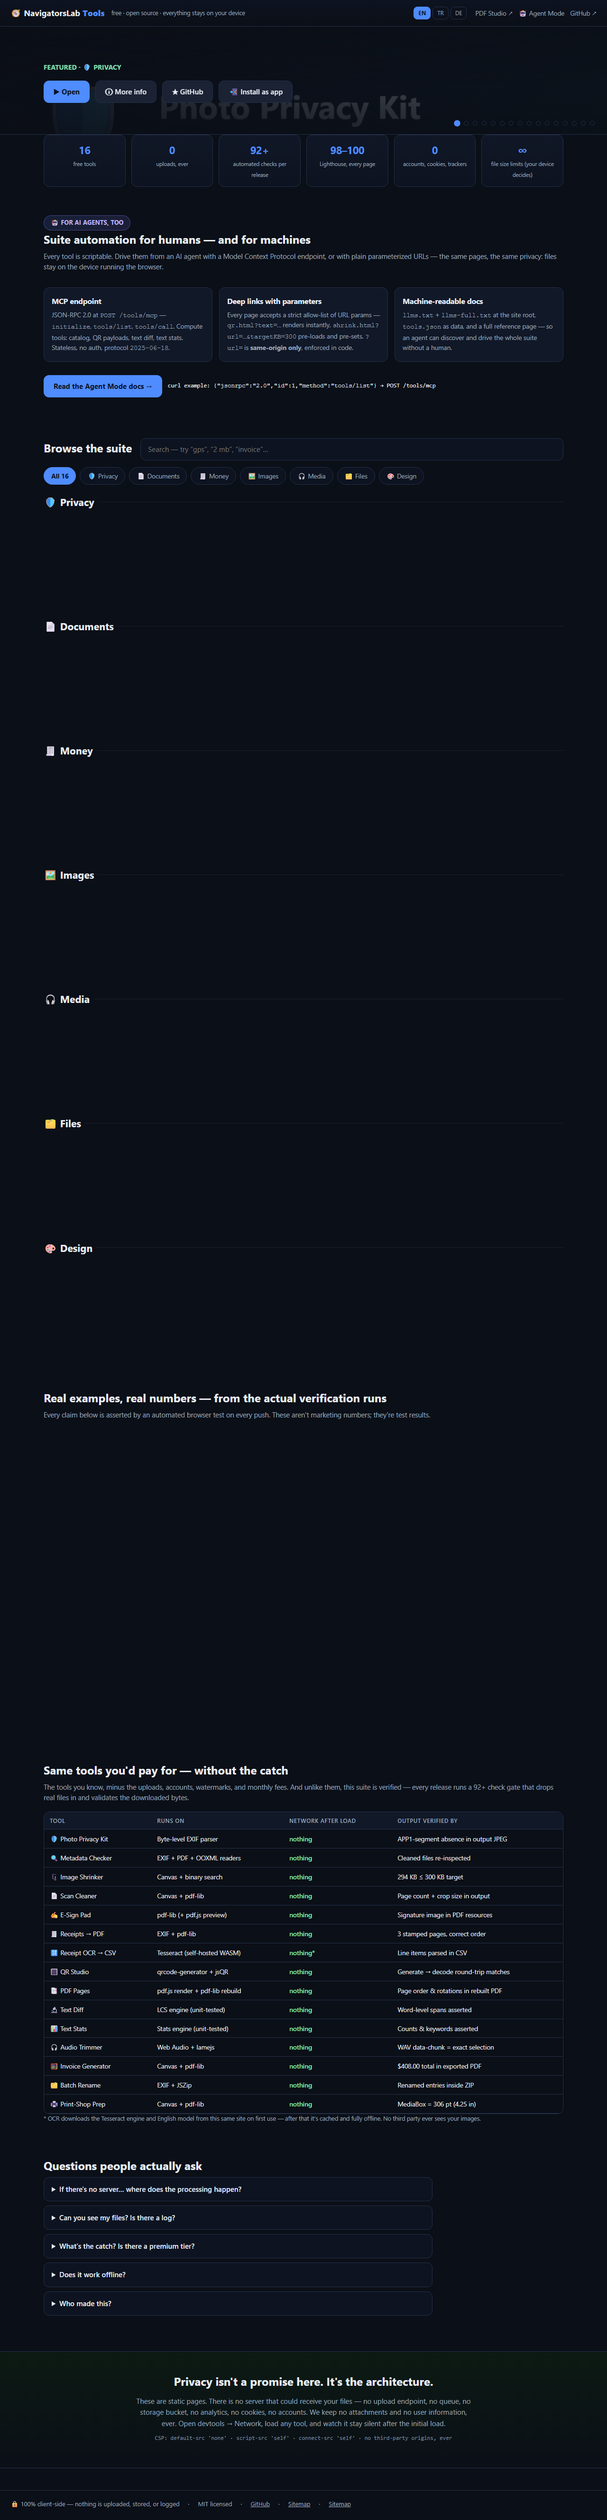
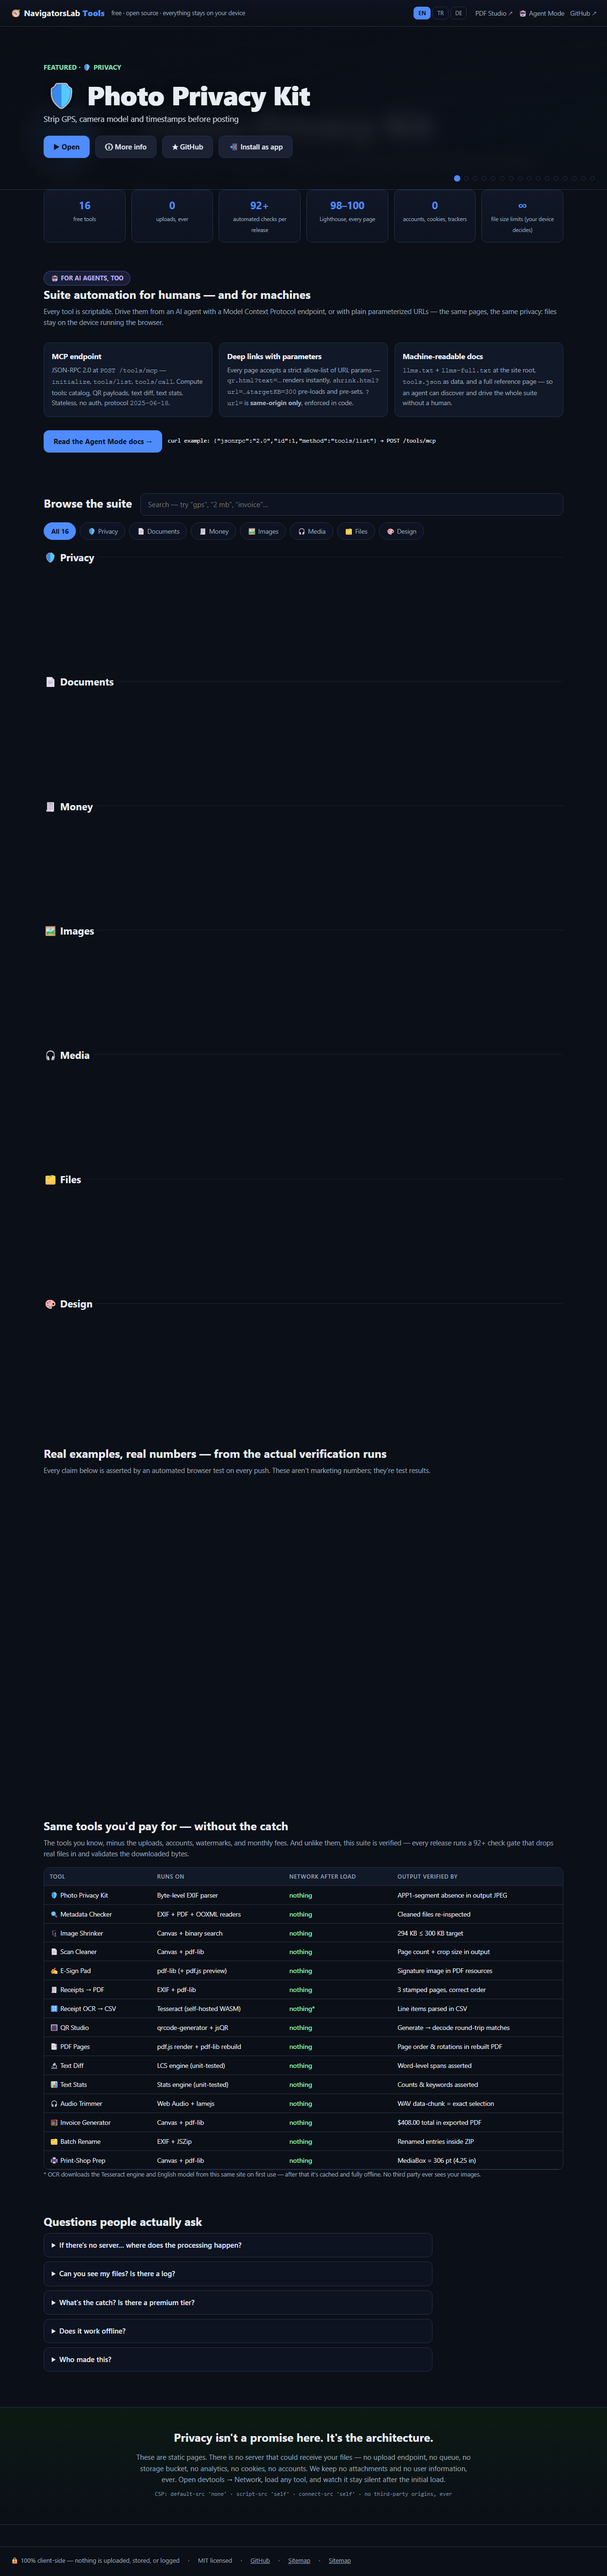
Billboard: real HTML title + tagline instead of poster art text
The featured spotlight relied on the OG poster's baked-in title, which
cropped under the CTA buttons at phone widths. Netflix-style billboards
need their own text layer: the art now stays an ambient blurred backdrop
and the crisp HTML title/tagline (localized) is the only title at every
width. Verified at 320px and 900px; 32/32 e2e checks pass.

🤖 Generated with Codebuff

diff --git a/src/styles.css b/src/styles.css
@@ -193,6 +193,11 @@ table.tbl { width: 100%; border-collapse: collapse; font-size: 13.5px; }
   position: absolute; inset: 0; width: 100%; height: 100%;
   object-fit: cover; object-position: center 30%;
   opacity: 0; transition: opacity .6s ease;
+  /* the OG posters carry baked-in title text that would double the HTML
+     title and crop badly at phone widths — blur them into an ambient
+     color wash so the HTML title is the only title at every width */
+  filter: blur(16px) saturate(1.15) brightness(.85);
+  transform: scale(1.1); /* hide the blur's transparent edge vignette */
 }
 .bb-art.ready { opacity: 1; }
 .bb-scrim {
@@ -209,6 +214,15 @@ table.tbl { width: 100%; border-collapse: collapse; font-size: 13.5px; }
   display: inline-block; color: #7ce0ae; font-size: 13.5px; font-weight: 700;
   letter-spacing: .4px; text-transform: uppercase; margin-bottom: 18px;
 }
+.bb-title {
+  margin: 0 0 10px; font-size: clamp(30px, 5.4vw, 56px); line-height: 1.05;
+  font-weight: 800; letter-spacing: -.5px;
+  text-shadow: 0 2px 18px rgba(0,0,0,.55);
+}
+.bb-tagline {
+  margin: 0 0 22px; max-width: 560px; font-size: 16.5px; line-height: 1.55;
+  color: #cfd8e6; text-shadow: 0 1px 10px rgba(0,0,0,.5);
+}
 .bb-cta { display: flex; gap: 12px; flex-wrap: wrap; }
 .bb-dots {
   position: absolute; right: 26px; bottom: 18px; z-index: 3;
@@ -221,6 +235,12 @@ table.tbl { width: 100%; border-collapse: collapse; font-size: 13.5px; }
 }
 .bb-dot:hover { transform: scale(1.25); }
 .bb-dot.on { background: var(--acc); border-color: var(--acc); transform: scale(1.35); }
+
+@media (max-width: 720px) {
+  .bb-inner { padding: 54px 18px 58px; }
+  .bb-title { font-size: 28px; margin-bottom: 8px; }
+  .bb-tagline { font-size: 14.5px; margin-bottom: 16px; }
+}
 
 /* --- rails: one horizontal scroller per category --- */
 .rails { display: block; }
@@ -285,6 +305,11 @@ table.tbl { width: 100%; border-collapse: collapse; font-size: 13.5px; }
   .cards.poster { transition: none; }
   .cards.poster:hover, .cards.poster:focus-within { transform: none; }
   .bb-dot { transition: none; }
+}
+
+/* keep billboard text + CTAs clear of the dots row on short/narrow viewports */
+@media (max-width: 900px) {
+  .bb-dots { right: 18px; bottom: 14px; }
 }
 
 .tools-head { display: flex; align-items: center; gap: 18px; flex-wrap: wrap; margin: 34px 0 6px; }

diff --git a/src/pages/index.ts b/src/pages/index.ts
@@ -76,6 +76,8 @@ function toolHref(t: Tool): string {
 /* ---------- billboard ---------- */
 const bbArt = document.getElementById('bbArt') as HTMLImageElement;
 const bbKicker = document.getElementById('bbKicker')!;
+const bbTitle = document.getElementById('bbTitle')!;
+const bbTagline = document.getElementById('bbTagline')!;
 const bbOpen = document.getElementById('bbOpen') as HTMLAnchorElement;
 const bbMore = document.getElementById('bbMore') as HTMLAnchorElement;
 const bbRepo = document.getElementById('bbRepo') as HTMLAnchorElement;
@@ -98,6 +100,8 @@ function showBillboard(i: number): void {
   bbArt.src = `./og-${tool.id}.png`;
   bbArt.alt = `${tool.name} — ${tool.tagline}`;
   bbKicker.textContent = `${t('bb.kicker', lang)} · ${t(`cat.${tool.category}`, lang)}`;
+  bbTitle.textContent = `${tool.icon} ${tool.name}`;
+  bbTagline.textContent = toolTagline(tool.id, tool.tagline, lang);
   bbOpen.href = toolHref(tool);
   bbMore.href = tool.url ?? `./${tool.id}.html`;
   bbRepo.href = tool.repo ?? 'https://github.com/Kayforkind/NavigatorsLab-Tools';

diff --git a/index.html b/index.html
@@ -37,6 +37,8 @@
       <div class="bb-scrim" aria-hidden="true"></div>
       <div class="bb-inner">
         <div class="bb-kicker" id="bbKicker"></div>
+        <h2 class="bb-title" id="bbTitle"></h2>
+        <p class="bb-tagline" id="bbTagline"></p>
         <div class="bb-cta">
           <a class="btn-hero primary" id="bbOpen" href="#tools">▶ Open</a>
           <a class="btn-hero" id="bbMore" href="#tools">ⓘ More info</a>
